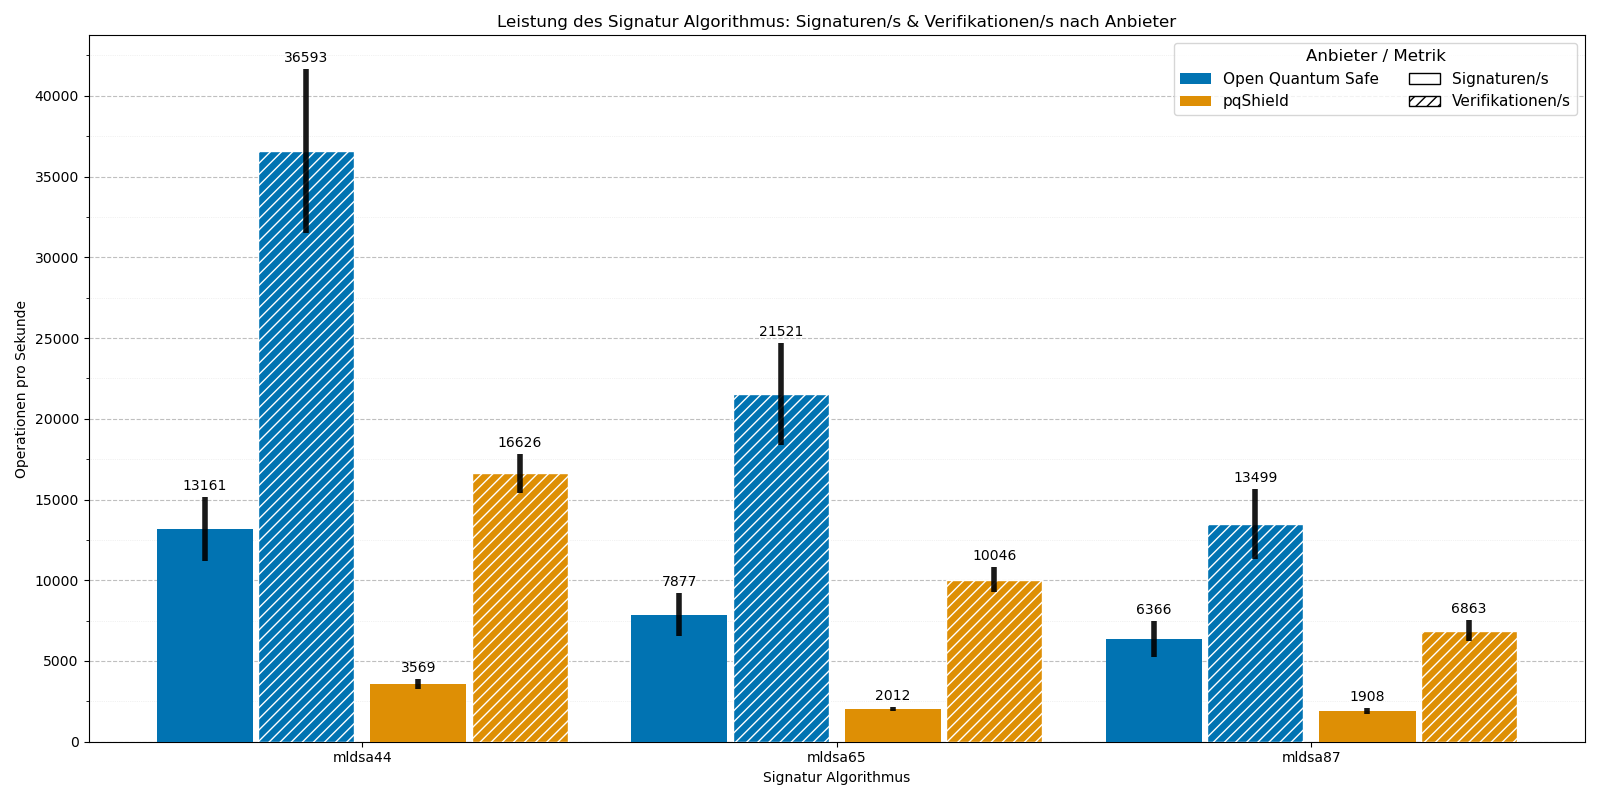
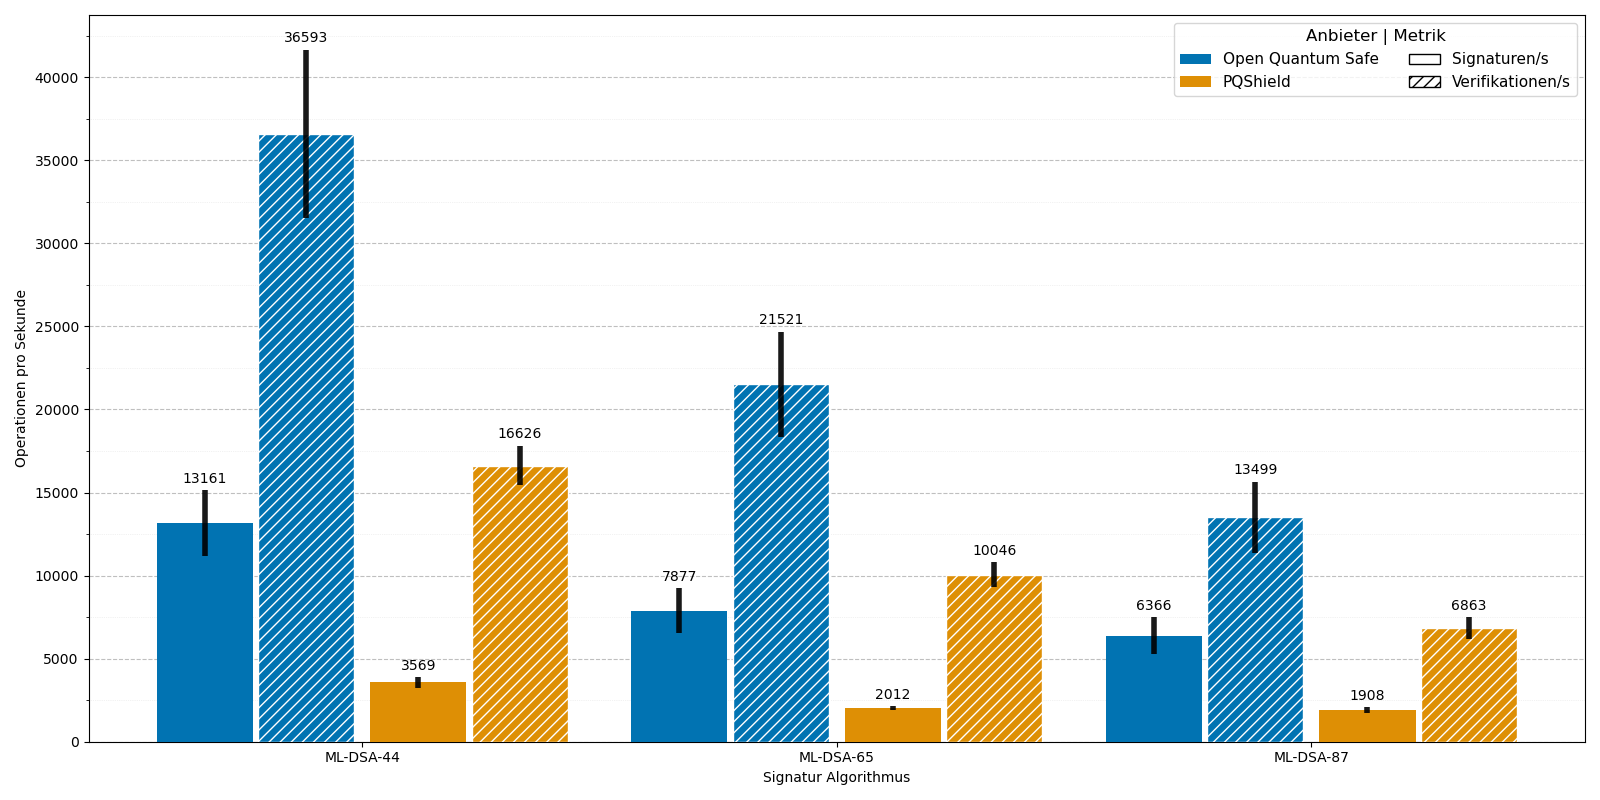
remove plot headers and consistent algorithm naming with paper

diff --git a/src/result_analyzing/generate_graphs.py b/src/result_analyzing/generate_graphs.py
@@ -1,3 +1,7 @@
+# I'm extremely ugly, don't try to understand me.
+# My author didn't try to make me handsome
+# so my code quality is ... bad.
+
 from pathlib import Path
 
 from matplotlib.ticker import AutoMinorLocator
@@ -10,18 +14,33 @@ RESULTS_BASE_PATH = Path("./results/raw_data/")
 AMT_OF_MEASUREMENTS = 5
 RESULT_PROVIDERS_FILE_MAP = {
     "oqs": "Open Quantum Safe",
-    "pqs": "pqShield",
+    "pqs": "PQShield",
     "ossl35": "OpenSSL 3.5"
 }
 
 # Fixed provider order to ensure consistent colors across all diagrams
-PROVIDER_ORDER = ["Open Quantum Safe", "pqShield", "OpenSSL 3.5"]
-KEM_ORDER = ["mlkem512", "mlkem768", "mlkem1024"]
+PROVIDER_ORDER = ["Open Quantum Safe", "PQShield", "OpenSSL 3.5"]
+KEM_ORDER = ["ML-KEM-512", "ML-KEM-768", "ML-KEM-1024"]
 
 KEM_NAME_MAP = {
     "ML-KEM-1024": "mlkem1024",
     "ML-KEM-768": "mlkem768",
     "ML-KEM-512": "mlkem512",
+}
+
+ALGORITHM_NAME_MAP = {
+    "mldsa44": "ML-DSA-44",
+    "mldsa65": "ML-DSA-65",
+    "mldsa87": "ML-DSA-87",
+    "rsa:3072": "RSA-3072",
+    "rsa:7680": "RSA-7680",
+    "rsa:15360": "RSA-15360",
+    "mlkem512": "ML-KEM-512",
+    "mlkem768": "ML-KEM-768",
+    "mlkem1024": "ML-KEM-1024",
+    "P-256": "P-256",
+    "P-384": "P-384",
+    "P-521": "P-521"
 }
 
 def read_data(file_suffix: str) -> pd.DataFrame:
@@ -35,13 +54,19 @@ def read_data(file_suffix: str) -> pd.DataFrame:
     return data
 
 def read_tls_data() -> pd.DataFrame:
-    return read_data("results_tls.csv")
+    data = read_data("results_tls.csv")
+    data = data.replace({"KEM": ALGORITHM_NAME_MAP, "SIG": ALGORITHM_NAME_MAP})
+    return data
 
 def read_kem_alg_perf_data() -> pd.DataFrame:
-    return read_data("results_kem_alg.csv")
+    data = read_data("results_kem_alg.csv")
+    data = data.replace({"kem-algorithm": ALGORITHM_NAME_MAP})
+    return data
 
 def read_sig_alg_perf_data() -> pd.DataFrame:
-    return read_data("results_sig_alg.csv")
+    data = read_data("results_sig_alg.csv")
+    data = data.replace({"sig-algorithm": ALGORITHM_NAME_MAP})
+    return data
 
 def get_tls_graph(nist_level: int, data: pd.DataFrame, ax):
     data = data[data['nist_level'].astype(int) == int(nist_level)].copy()
@@ -110,8 +135,6 @@ def sort_pivot_by_order(pivot, order):
 
 # Update the get_kem_alg_graph function to sort by KEM_ORDER
 def get_kem_alg_graph(data: pd.DataFrame):
-    # normalize KEM names
-    data = data.replace({"kem-algorithm": KEM_NAME_MAP})
 
     # aggregate mean and std per (kem-algorithm, provider)
     summary = data.groupby(['kem-algorithm', 'provider'], as_index=False)[['encaps/s', 'decaps/s']].agg(['mean', 'std']).reset_index()
@@ -184,14 +207,13 @@ def get_kem_alg_graph(data: pd.DataFrame):
     ax.set_xticklabels(kem_labels, rotation=0, ha='center')
     ax.set_xlabel('Schlüsselkapselungsverfahren')
     ax.set_ylabel('Operationen pro Sekunde')
-    ax.set_title('Schlüsselkapselungsverfahren-Leistung: Kapselung & Dekapselung nach Anbieter')
 
     # Provider legend: colored patches + encap/decap explanation
     from matplotlib.patches import Patch
     provider_handles = [Patch(facecolor=palette[i], label=providers[i]) for i in range(len(providers))]
     enc_handle = Patch(facecolor='white', edgecolor='black', label='Kapselung/s')
-    dec_handle = Patch(facecolor='white', edgecolor='black', hatch='///', label='Dekapselung/s')
-    ax.legend(handles=provider_handles + [enc_handle, dec_handle], title='Anbieter / Metrik',
+    dec_handle = Patch(facecolor='white', edgecolor='black', hatch='///', label='Entkapselungen/s')
+    ax.legend(handles=provider_handles + [enc_handle, dec_handle], title='Anbieter | Metrik',
               fontsize=11, title_fontsize=12, ncol=2)
 
     # Grid customization (only horizontal lines)
@@ -267,14 +289,13 @@ def get_sig_alg_graph(data: pd.DataFrame):
     ax.set_xticklabels(sig_labels, rotation=0, ha='center')
     ax.set_xlabel('Signatur Algorithmus')
     ax.set_ylabel('Operationen pro Sekunde')
-    ax.set_title('Leistung des Signatur Algorithmus: Signaturen/s & Verifikationen/s nach Anbieter')
 
     # Provider legend: colored patches + encap/decap explanation
     from matplotlib.patches import Patch
     provider_handles = [Patch(facecolor=palette[i], label=providers[i]) for i in range(len(providers))]
     enc_handle = Patch(facecolor='white', edgecolor='black', label='Signaturen/s')
     dec_handle = Patch(facecolor='white', edgecolor='black', hatch='///', label='Verifikationen/s')
-    ax.legend(handles=provider_handles + [enc_handle, dec_handle], title='Anbieter / Metrik',
+    ax.legend(handles=provider_handles + [enc_handle, dec_handle], title='Anbieter | Metrik',
               fontsize=11, title_fontsize=12, ncol=2)
 
     # Grid customization (only horizontal lines)
